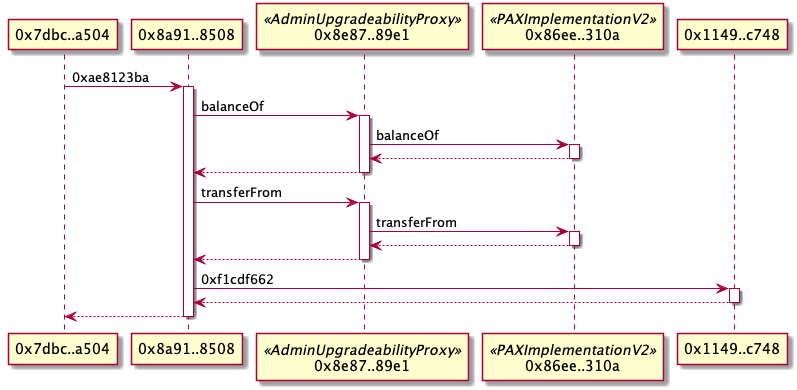
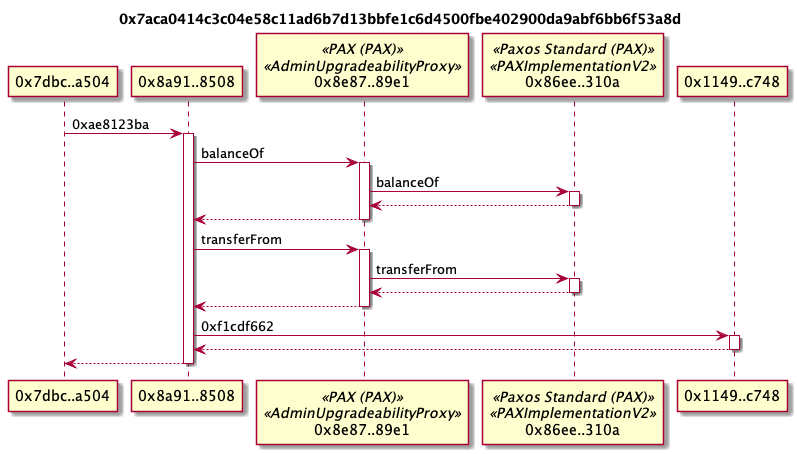
Added token name and symbol to participants

diff --git a/src/ts/transaction.ts b/src/ts/transaction.ts
@@ -1,4 +1,4 @@
-import { getContractMessages, getTransactionDetails } from "./AlethioClient"
+import {getContractMessages, getToken, getTransactionDetails} from "./AlethioClient"
 import { getContract } from "./EtherscanClient"
 
 const debug = require("debug")("tx2uml")
@@ -38,9 +38,13 @@ export type Message = {
 }
 
 export type Contract = {
+  address: string
   contractName?: string
   appName?: string
   balance?: number
+  tokenName?: string
+  symbol?: string
+  decimals?: number
 }
 
 export type Contracts = { [address: string]: Contract }
@@ -100,12 +104,15 @@ export const getTransaction = async (
   const uniqueAddresses = new Set([firstMessage.from, ...contractAddresses])
   debug(`${uniqueAddresses.size} participants in the transaction`)
   for (const address of uniqueAddresses) {
-    if (!contracts[address]) {
-      contracts[address] = await getContract(
-        address,
-        options.etherscanApiKey,
-        network
-      )
+    contracts[address] = await getContract(
+      address,
+      options.etherscanApiKey,
+      network
+    )
+    const token = await getToken(address, options.alethioApiKey, network)
+    if (token) {
+      contracts[address].tokenName = token.name
+      contracts[address].symbol = token.symbol
     }
   }
 

diff --git a/lib/plantUmlGenerator.js b/lib/plantUmlGenerator.js
@@ -16,13 +16,20 @@ exports.genPlantUml = (messages, contracts, details) => {
 };
 exports.genParticipants = (contracts) => {
     let plantUml = "\n";
-    for (const [address, names] of Object.entries(contracts)) {
-        if (names.contractName) {
-            plantUml += `participant "${exports.shortAddress(address)}" as ${exports.participantId(address)} <<${names.contractName}>>\n`;
+    for (const [address, contract] of Object.entries(contracts)) {
+        let name = "";
+        if (contract.tokenName) {
+            if (contract.symbol) {
+                name = `<<${contract.tokenName} (${contract.symbol})>>`;
+            }
+            else {
+                name = `<<${contract.tokenName}>>`;
+            }
         }
-        else {
-            plantUml += `participant "${exports.shortAddress(address)}" as ${exports.participantId(address)}\n`;
+        if (contract.contractName) {
+            name += `<<${contract.contractName}>>`;
         }
+        plantUml += `participant "${exports.shortAddress(address)}" as ${exports.participantId(address)} ${name}\n`;
     }
     return plantUml;
 };

diff --git a/src/ts/plantUmlGenerator.ts b/src/ts/plantUmlGenerator.ts
@@ -29,16 +29,22 @@ export const genPlantUml = (
 export const genParticipants = (contracts: Contracts): string => {
   let plantUml = "\n"
 
-  for (const [address, names] of Object.entries(contracts)) {
-    if (names.contractName) {
-      plantUml += `participant "${shortAddress(address)}" as ${participantId(
-        address
-      )} <<${names.contractName}>>\n`
-    } else {
-      plantUml += `participant "${shortAddress(address)}" as ${participantId(
-        address
-      )}\n`
+  for (const [address, contract] of Object.entries(contracts)) {
+    let name: string = ""
+    if (contract.tokenName) {
+      if (contract.symbol) {
+        name = `<<${contract.tokenName} (${contract.symbol})>>`
+      } else {
+        name = `<<${contract.tokenName}>>`
+      }
     }
+    if (contract.contractName) {
+      name += `<<${contract.contractName}>>`
+    }
+
+    plantUml += `participant "${shortAddress(address)}" as ${participantId(
+      address
+    )} ${name}\n`
   }
 
   return plantUml

diff --git a/lib/transaction.js b/lib/transaction.js
@@ -24,8 +24,11 @@ exports.getTransaction = async (txHash, options = {}) => {
     const uniqueAddresses = new Set([firstMessage.from, ...contractAddresses]);
     debug(`${uniqueAddresses.size} participants in the transaction`);
     for (const address of uniqueAddresses) {
-        if (!contracts[address]) {
-            contracts[address] = await EtherscanClient_1.getContract(address, options.etherscanApiKey, network);
+        contracts[address] = await EtherscanClient_1.getContract(address, options.etherscanApiKey, network);
+        const token = await AlethioClient_1.getToken(address, options.alethioApiKey, network);
+        if (token) {
+            contracts[address].tokenName = token.name;
+            contracts[address].symbol = token.symbol;
         }
     }
     return [messages, contracts, details];

diff --git a/src/ts/__tests__/plantUmlGenerator.test.ts b/src/ts/__tests__/plantUmlGenerator.test.ts
@@ -22,14 +22,19 @@ const basePayload: Payload = {
 }
 
 const testContracts: Contracts = {
-  "0x0000324fd7df8b2a969969bcc3663d74f0581111": {},
+  "0x0000324fd7df8b2a969969bcc3663d74f0581111": {
+    address: "0x0000324fd7df8b2a969969bcc3663d74f0581111"
+  },
   "0x11116FECD516Ecc3849DAf6845e3EC8680872222": {
+    address: "0x11116FECD516Ecc3849DAf6845e3EC8680872222",
     contractName: "KyberNetworkProxy"
   },
   "0x22226FECD516Ecc3849DAf6845e3EC8680873333": {
+    address: "0x22226FECD516Ecc3849DAf6845e3EC8680873333",
     contractName: "KyberNetwork"
   },
   "0x333365fe5446d880f8ec261d9224166909124444": {
+    address: "0x333365fe5446d880f8ec261d9224166909124444",
     contractName: "Tether USD"
   }
 }

diff --git a/lib/EtherscanClient.js b/lib/EtherscanClient.js
@@ -31,11 +31,13 @@ apiKey = "Q35WDQ2354617I8E2Z1E4WU3MIEP89DW9H", network = "mainnet") => {
         if (response.data.result[0].ABI === "Contract source code not verified") {
             debug(`Contract ${contractAddress} is not verified on Etherscan`);
             return {
+                address: contractAddress,
                 contractName: null
             };
         }
         debug(`Got contract name ${response.data.result[0].ContractName} for address ${contractAddress} from Etherscan`);
         return {
+            address: contractAddress,
             contractName: response.data.result[0].ContractName
         };
     }

diff --git a/src/ts/EtherscanClient.ts b/src/ts/EtherscanClient.ts
@@ -36,6 +36,7 @@ export const getContract = async (
     if (response.data.result[0].ABI === "Contract source code not verified") {
       debug(`Contract ${contractAddress} is not verified on Etherscan`)
       return {
+        address: contractAddress,
         contractName: null
       }
     }
@@ -45,6 +46,7 @@ export const getContract = async (
     )
 
     return {
+      address: contractAddress,
       contractName: response.data.result[0].ContractName
     }
   } catch (err) {

diff --git a/lib/transaction.d.ts b/lib/transaction.d.ts
@@ -29,9 +29,13 @@ export declare type Message = {
     error?: string;
 };
 export declare type Contract = {
+    address: string;
     contractName?: string;
     appName?: string;
     balance?: number;
+    tokenName?: string;
+    symbol?: string;
+    decimals?: number;
 };
 export declare type Contracts = {
     [address: string]: Contract;

diff --git a/examples/README.md b/examples/README.md
@@ -2,7 +2,7 @@
 
 ## Uniswap
 
-This is example is removing liquidity from the Uniswap MKR pool
+This is example is removing liquidity from the Uniswap MKR pool. The 69.75 ETH is a value transfer, not a contract call.
 
 ![UniswapMKRRemove](./uniswapMKRRemove.png)
 
@@ -52,7 +52,7 @@ tx2uml 0xe2e3ef2513c8e3da306cb427c03ae0114062fd09568bec559d5880c490ff743a
 
 The [1inch exchange](https://1inch.exchange/) aggregates the exchange of Ether and tokens across on-chain liquidity providers so does lots of calls to different contracts.
 
-![1inch](./1inch.png)
+![1inch Synth](./1inchSynth.png)
 
 ```
 tx2uml 0x34e4f8b86b5c3fe5a9e30e7cf75b242ed3e6e4eeea68cfaf3ca68ef1edb93ed1 -o 1inch
